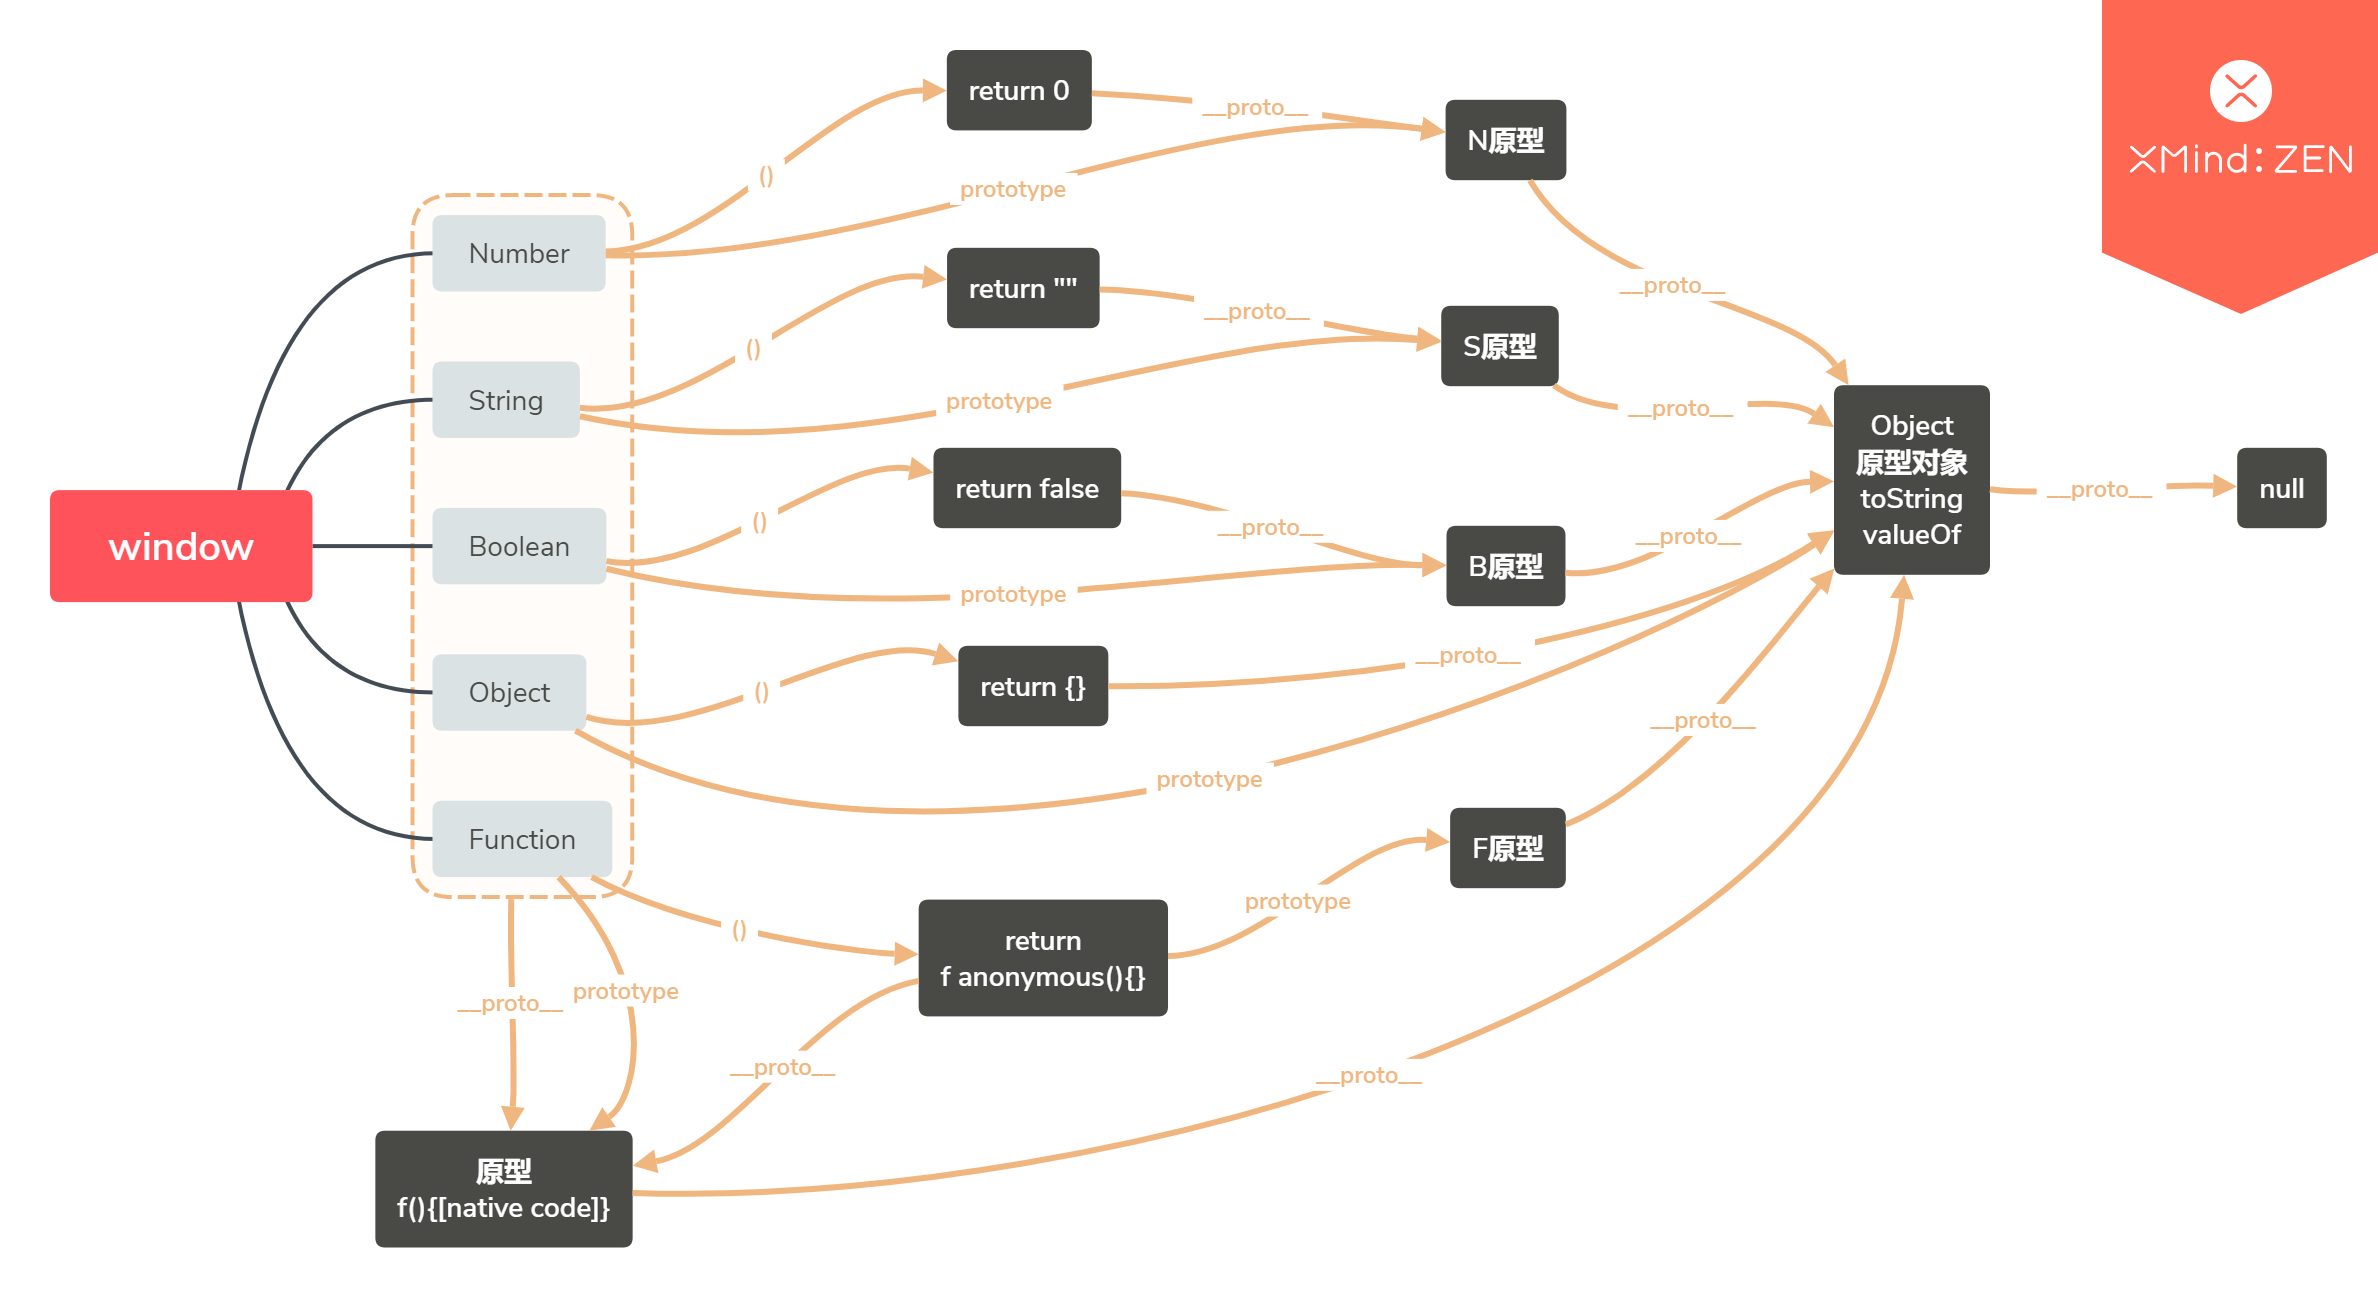
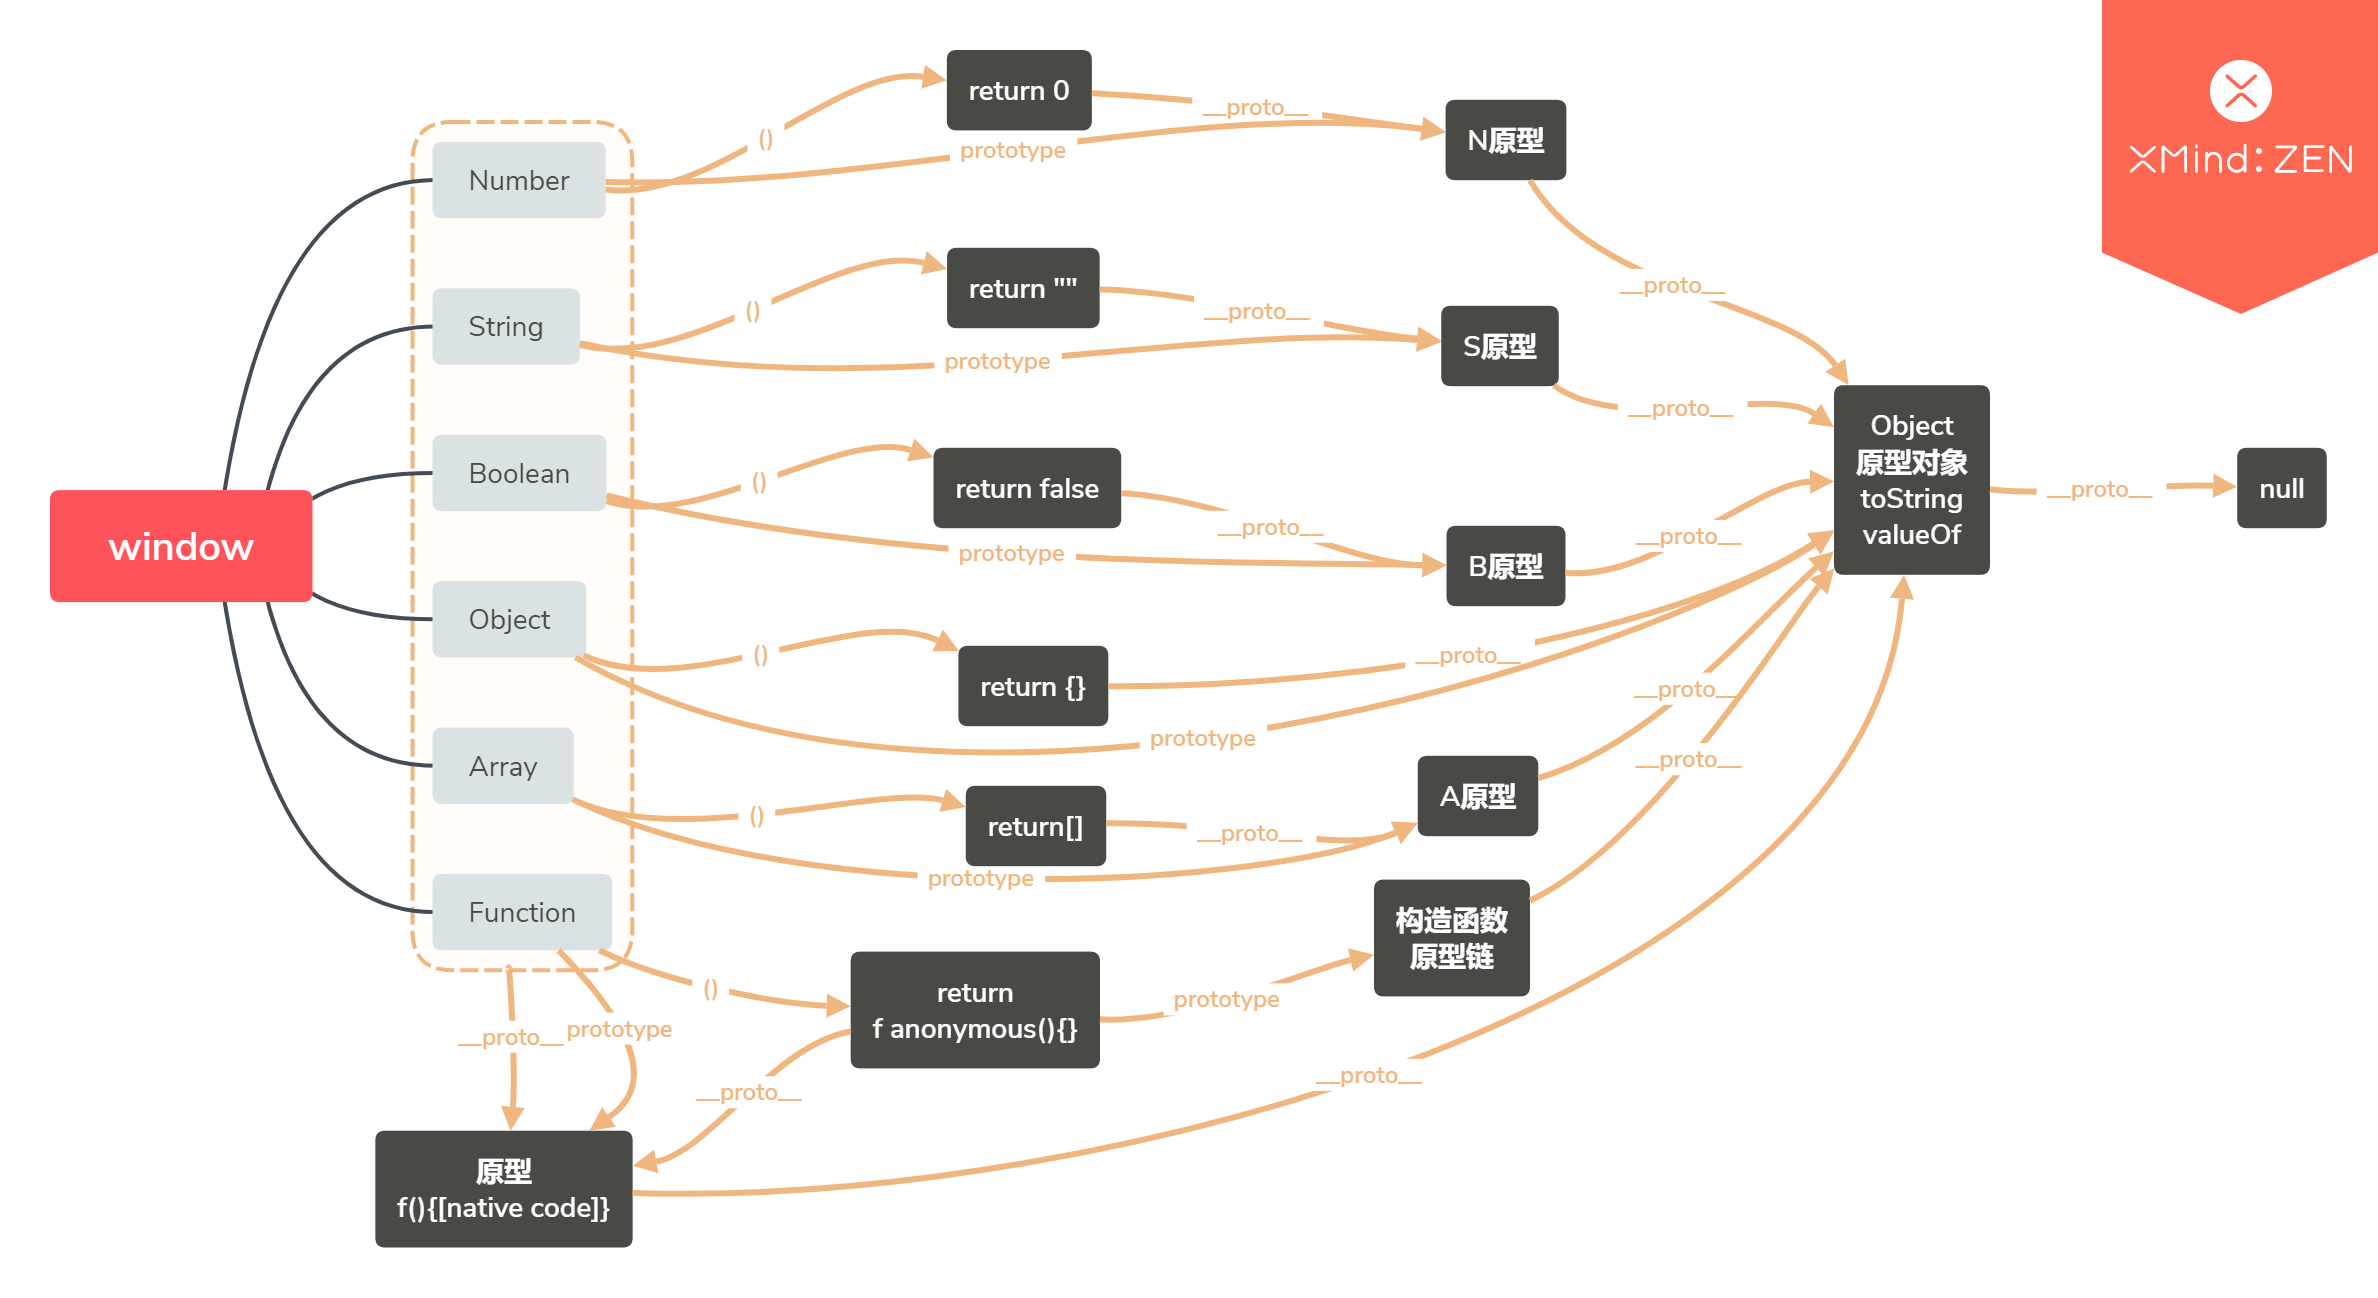
02151

Changed region(s): [[0.0934, 0.0924, 0.778, 0.8937], [0.3423, 0.0308, 0.4045, 0.0924]]

diff --git a/source/_posts/原型与原型链.md b/source/_posts/原型与原型链.md
@@ -76,9 +76,20 @@ o1 === o2  // true
 ---
 
 # 原型结构
-每个对象都有一个`__proto__`用来储存原型数据的地址。
+## 原型
+每个对象都有一个`__proto__`用来储存原型对象的地址。
 
-每个类型的`Prototype` 储存着此类型的原型
+每个类型的`Prototype` 储存着此类型的原型对象
+
+原型对象的属性不是实例对象自身的属性。只要修改原型对象，变动就立刻会体现在所有实例对象上。
+
+总结一下，原型对象的作用，就是定义所有实例对象共享的属性和方法。这也是它被称为原型对象的原因，而实例对象可以视作从原型对象衍生出来的子对象。
+
+## 原型链
+JavaScript 规定，所有对象都有自己的原型对象（prototype）。一方面，任何一个对象，都可以充当其他对象的原型；另一方面，由于原型对象也是对象，所以它也有自己的原型。因此，就会形成一个“原型链”（prototype chain）：对象到原型，再到原型的原型……
+
+如果一层层地上溯，所有对象的原型最终都可以上溯到Object.prototype，即Object构造函数的prototype属性。也就是说，所有对象都继承了Object.prototype的属性。这就是所有对象都有valueOf和toString方法的原因，因为这是从Object.prototype继承的。
+
 
 {% asset_img window.png [原型结构] %}
 ---
